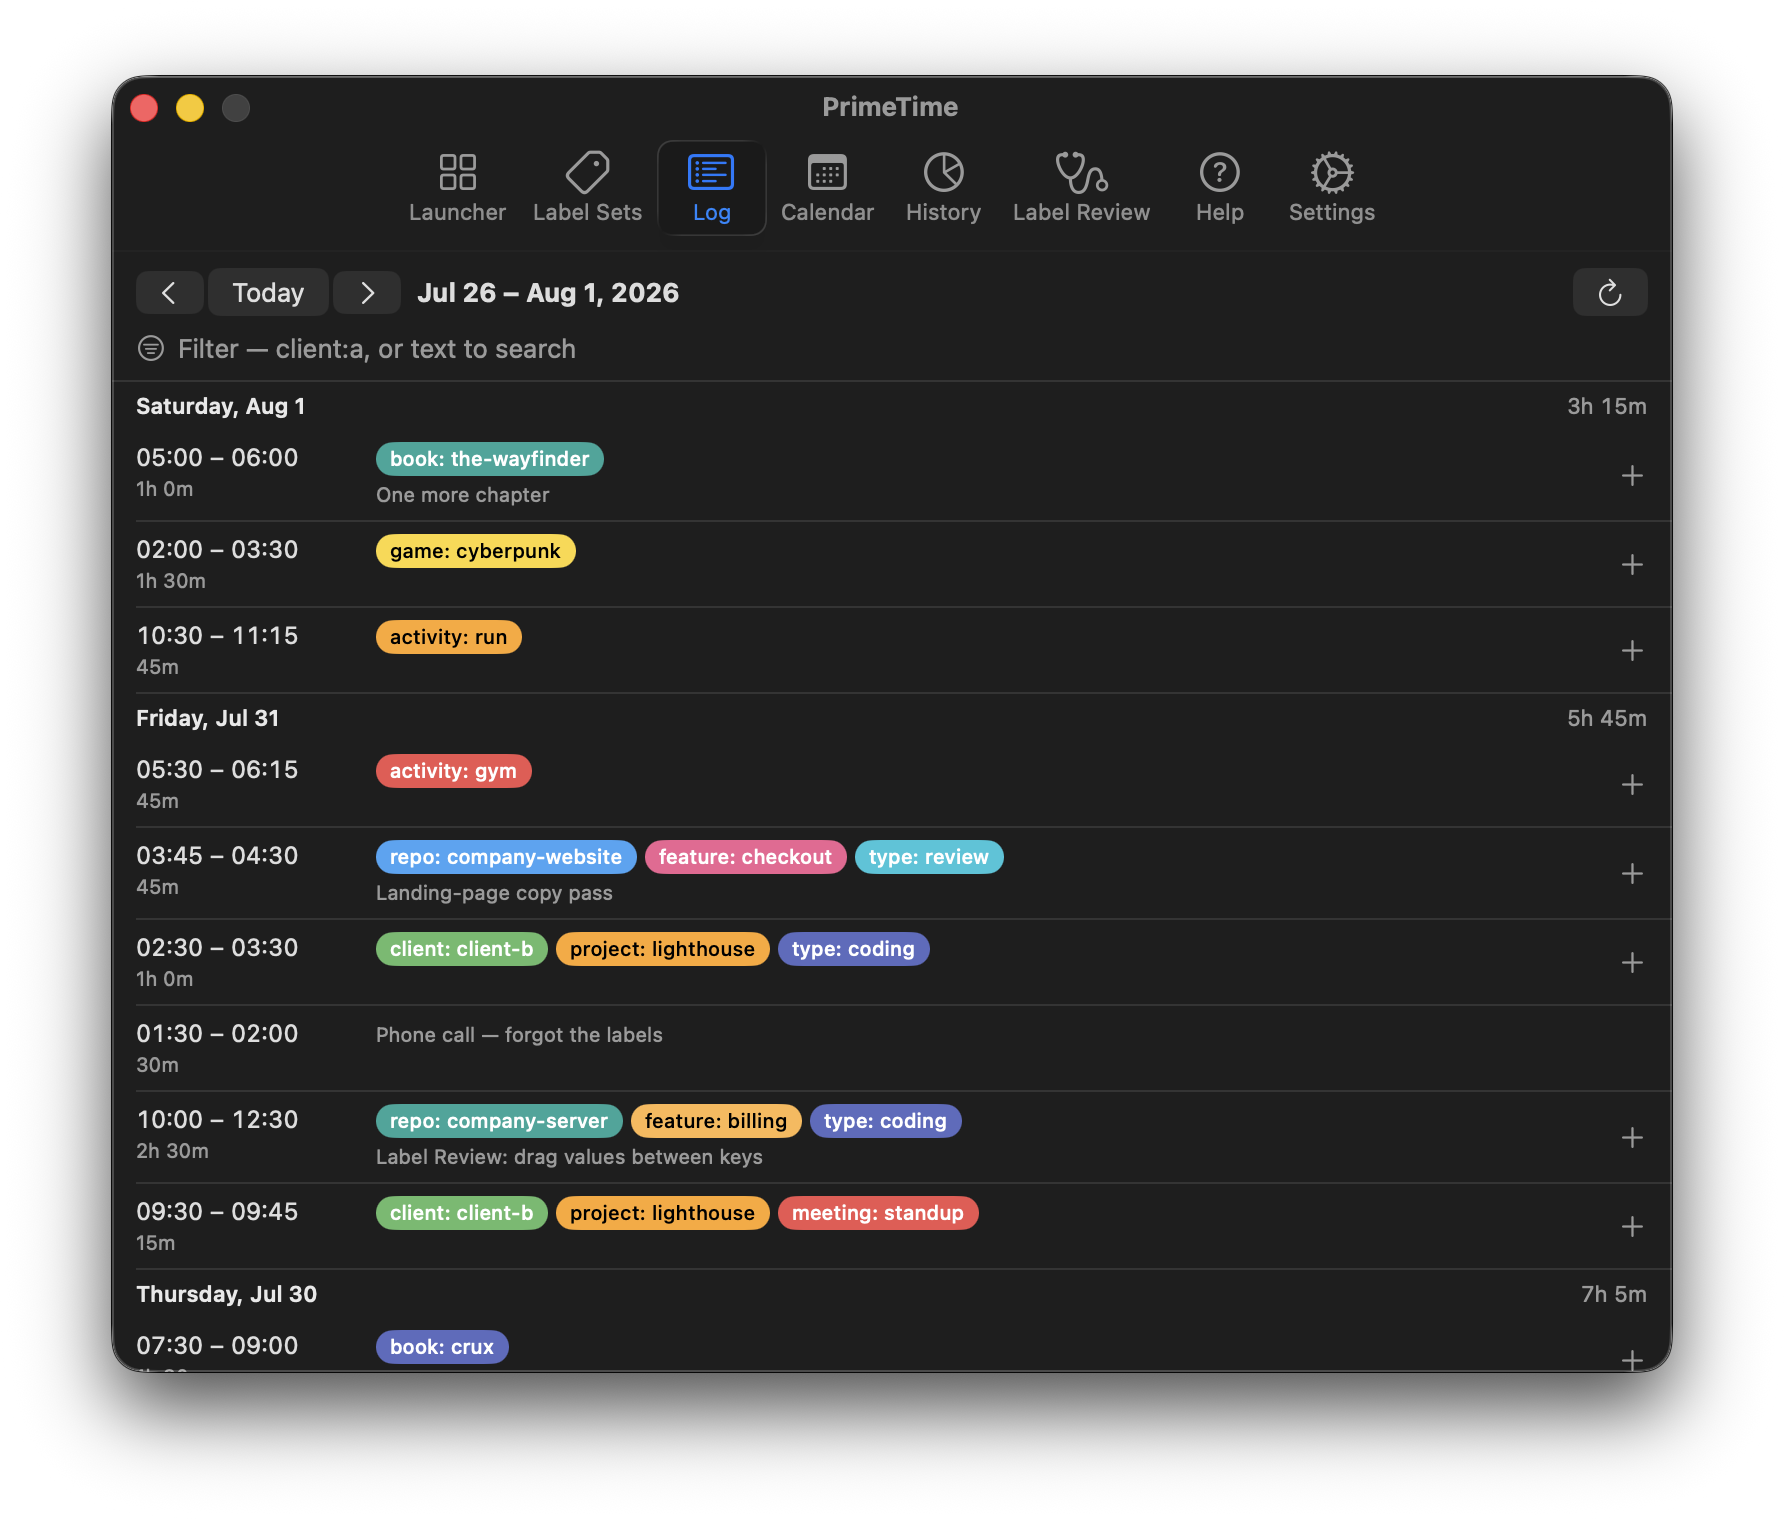
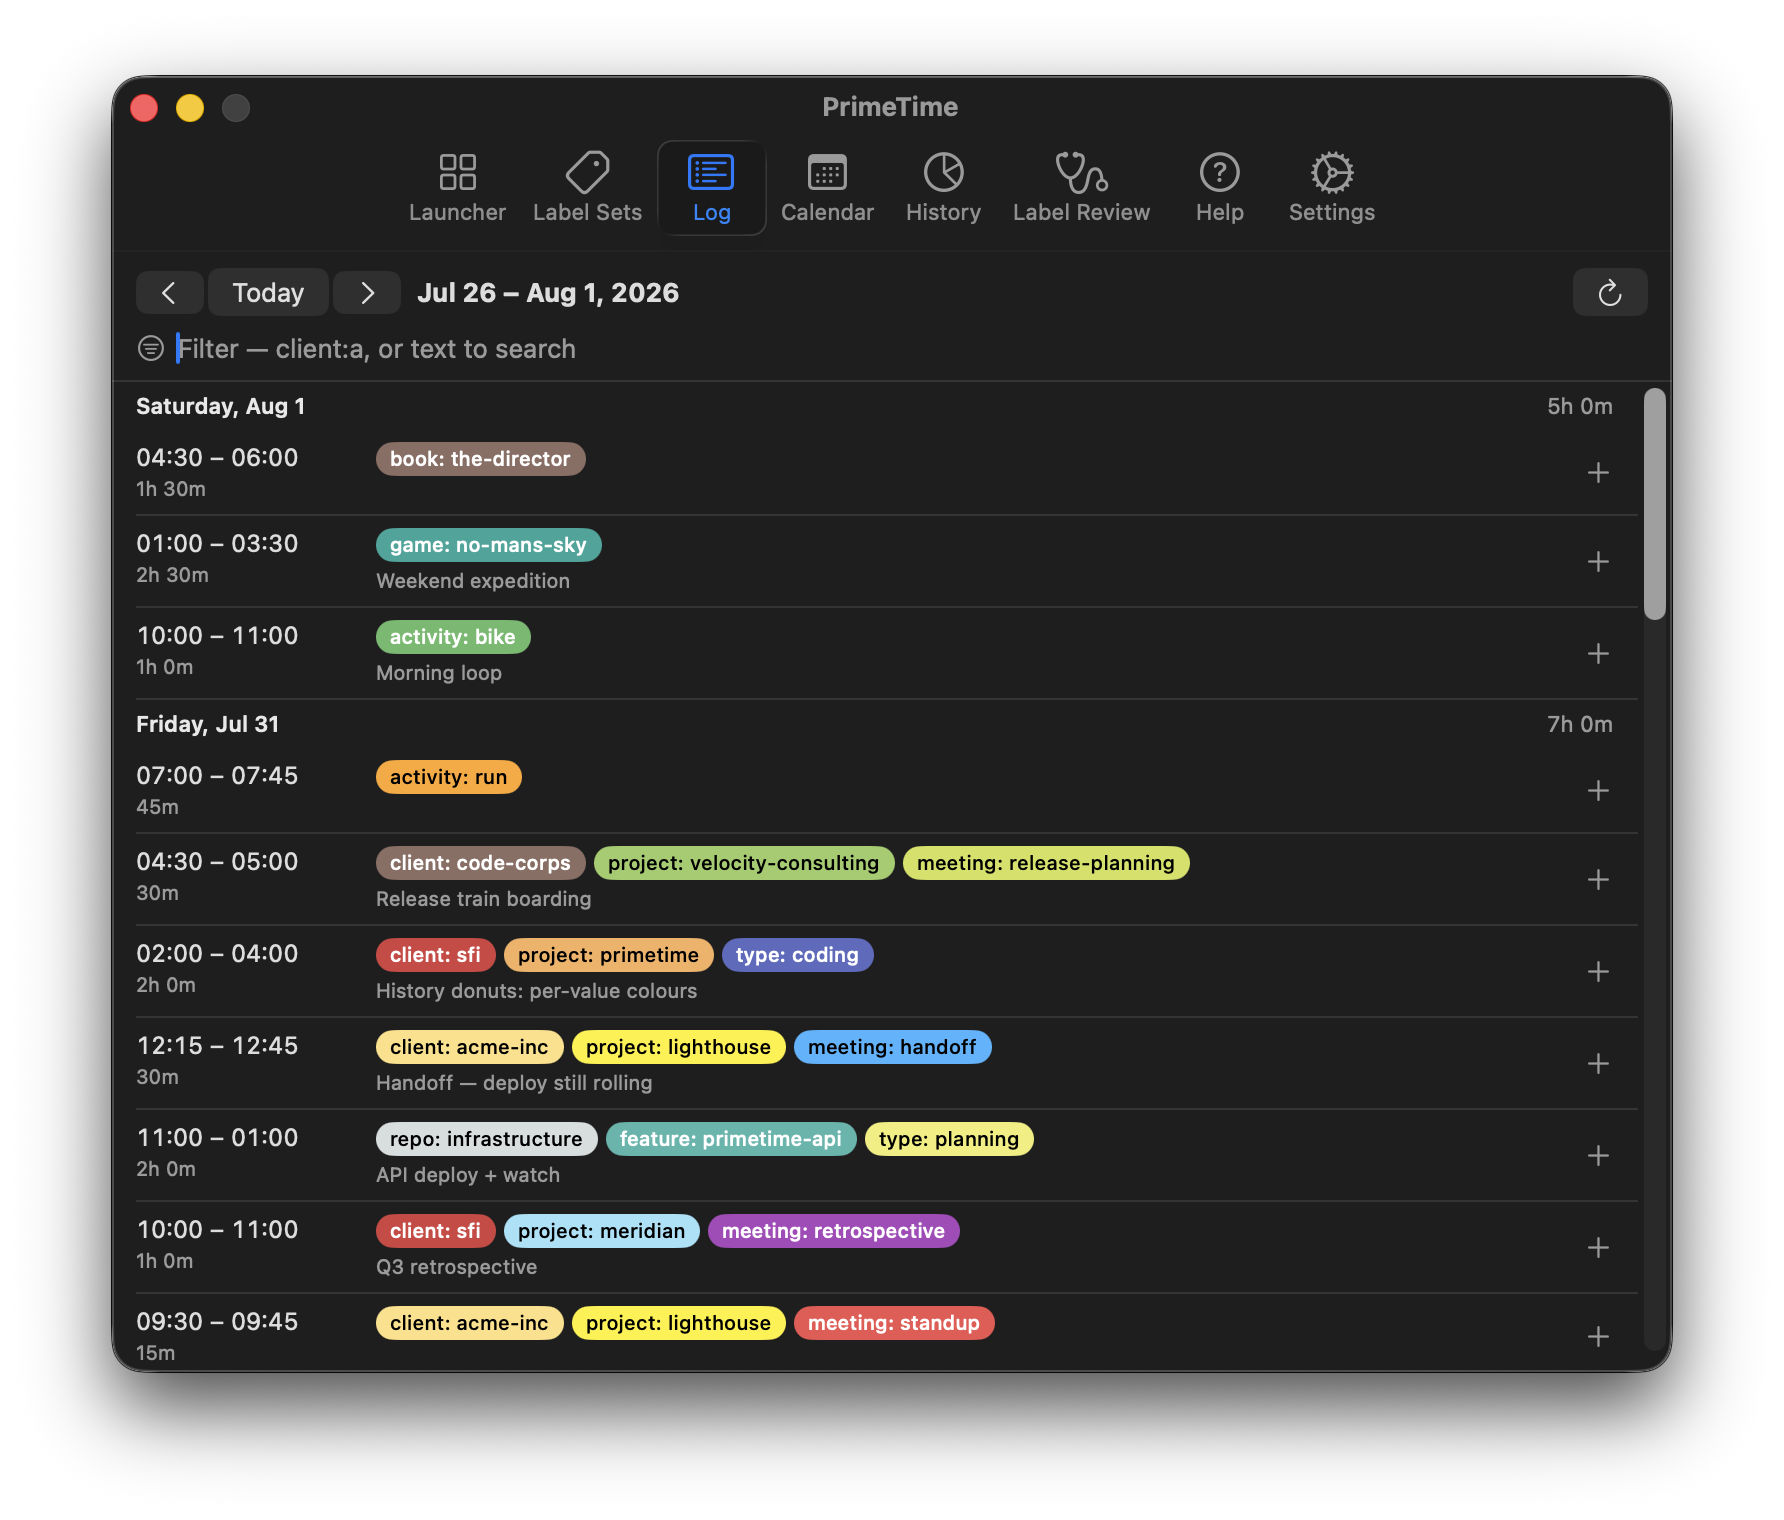
Release asset pass: light-theme stills, App Store screenshots, fresh batch (#191)
Final release-asset pass before Mac App Store submission. Companion: primetime-website#30.

**Pipeline** (fef3260)
- `shots.yaml`: `theme: light` website renditions for the five stills the site keeps as images; `to: appstore` outputs for all eight stills — composited onto a flattened 2880×1800 (16:10) charcoal canvas per the App Store Connect spec, committed in `captures/appstore/` for hand-upload at submission.
- Dropped web renditions nothing embeds (popover/launcher/label-review webps — the latter two moved to their motion mp4s).
- `process-captures.sh`/`export-captures.sh`: theme-aware raws (`<id>-light.png`), destination-prefixed staging (fixes the readme/appstore `label-review.png` collision), appstore compositing + destination; export worktree now dated with the **local** date (a UTC evening rollover split the capture/export worktree pair mid-run).
- Capture skill: light-appearance flow.

**Batch** (complete, manifests stamped v0.7.2-11-gfef3260 @ macbook-air)
- All 13 shots re-captured at head — the Aug 5 batch predated the demo colour tweaks in 2446a8c — plus 5 light stills and 8 App Store composites.
- Scene texts updated to the reworked demo seed: quick sets are PrimeTime App / Project Meridian / Gaming / Workout / Reading; Label Review's drift is `proj` → `project` (company-website, 10×); Settings shows Storage/Menu/Labels.
- New popover-motion framing is 800×1688 (status item + taller popover); tab videos are 1400×1192.
[…]

diff --git a/.claude/skills/shared/smoothdrag.swift b/.claude/skills/shared/smoothdrag.swift
@@ -1,0 +1,37 @@
+import CoreGraphics
+import Foundation
+
+// smoothdrag x1 y1 x2 y2 [durationMs=900] — a drag as macOS actually sees
+// one: mouseDown, ~60Hz interpolated mouseDragged stream, a settle pause
+// over the target, then mouseUp at the same spot.
+let a = CommandLine.arguments.compactMap { Double($0) }
+guard a.count >= 4 else { fputs("usage: smoothdrag x1 y1 x2 y2 [ms]\n", stderr); exit(2) }
+let (x1, y1, x2, y2) = (a[0], a[1], a[2], a[3])
+let ms = a.count >= 5 ? a[4] : 900
+
+func post(_ type: CGEventType, _ p: CGPoint) {
+    CGEvent(mouseEventSource: nil, mouseType: type, mouseCursorPosition: p,
+            mouseButton: .left)?.post(tap: .cghidEventTap)
+}
+
+let start = CGPoint(x: x1, y: y1)
+let end = CGPoint(x: x2, y: y2)
+post(.mouseMoved, start)
+usleep(200_000)
+post(.leftMouseDown, start)
+usleep(120_000)
+let steps = max(20, Int(ms / 16))
+for i in 1...steps {
+    let t = Double(i) / Double(steps)
+    // ease-in-out so the pickup and the approach are gentle
+    let e = t * t * (3 - 2 * t)
+    let p = CGPoint(x: x1 + (x2 - x1) * e, y: y1 + (y2 - y1) * e)
+    post(.leftMouseDragged, p)
+    usleep(16_000)
+}
+// settle over the target so dropUpdated has cycles to accept
+for _ in 0..<8 {
+    post(.leftMouseDragged, end)
+    usleep(60_000)
+}
+post(.leftMouseUp, end)

diff --git a/.claude/skills/shared/ax-driving.md b/.claude/skills/shared/ax-driving.md
@@ -204,3 +204,40 @@ skills, so the two don't drift.
   the take, and windows left over from onboarding (walkthrough → main
   window) overlap popover-region captures — close them all and verify
   with a CGWindowList helper that *zero* app windows remain on screen.
+- **Bulk attribute reads beat per-element iteration** (2026-08-07, popover
+  driving): `repeat with e in (UI elements of …)` re-resolves each element
+  by index and -10000s flakily even right after a successful `count`.
+  `set rs to role of UI elements of …` / `position of UI elements of …` /
+  `help of UI elements of …` fetch whole columns in one AppleEvent and are
+  reliable (absent attributes come back as `missing value`, no try needed).
+  Read everything you'll need *early* — trees go stale after clicks cause
+  reflows — and cache positions that survive the reflow (e.g. the top
+  timer's Stop button keeps its spot when a second timer appears).
+- **Hover-reveal rows: approach horizontally, target from AX at runtime**
+  (2026-08-07, popover quick-start rows): a cursor path that crosses upper
+  rows hover-expands them, shifting every later y — pre-baked coordinates
+  from a rehearsal in a different hover state click the wrong row. Enter
+  the row from *outside* the popover at its own y, and resolve chip
+  positions (`help` bulk read) only after the expansion settles.
+- **`.draggable`→`dropDestination` drops need a real event stream**
+  (2026-08-07, Label Review value→key drag): the cliclick
+  `dd:… m:… du:` recipe forms the drag session (preview + green badge)
+  but `performDrop` fires maybe 1 time in 5 — synthesized batch moves
+  starve `dropUpdated`. A tiny swiftc helper posting mouseDown, ~60Hz
+  interpolated `leftMouseDragged` events (ease-in-out), ~0.5s of settle
+  events over the target, then mouseUp landed the drop first try, every
+  try (`smoothdrag x1 y1 x2 y2 [ms]` — source vendored beside this file as
+  [smoothdrag.swift](smoothdrag.swift); `swiftc -O` it on demand). Frontmost still
+  required, and Escape before retries still applies.
+- **Focused vs unfocused window-ID stills differ in canvas size**
+  (2026-08-07): `screencapture -x -l` pads the window with its shadow —
+  56pt on every side for a *key* window (the 780×648 PrimeTime window →
+  1784×1520 px), noticeably less when unfocused. Screenshot-to-screen
+  coordinate math must use the focused margins (global = window origin +
+  canvas_pt − 56), and mixing focused/unfocused stills in one batch
+  changes rendition dimensions.
+- **`screencapture -v -V <s>` recordings end 1–4s before the cap** and the
+  written file's tail often can't be frame-extracted (`ffmpeg -ss` near
+  the end yields nothing even though `duration` includes it). Pad the cap
+  a few seconds past the choreography's last beat, and verify beats with
+  frames a couple of seconds *before* the nominal end.

diff --git a/captures/README.md b/captures/README.md
@@ -7,8 +7,9 @@ that capture batch reproducible instead of a per-session improvisation.
 | Piece | Role |
 | --- | --- |
 | `shots.yaml` | The shot list: every asset, the scene it must show, and which renditions ship where. Update a shot's `scene` in the same PR that changes its surface. |
-| `raw/` (gitignored) | Native-resolution captures as they come off `screencapture` — `<id>.png` stills, `<id>.mov` recordings. |
-| `out/` (gitignored) | Processed renditions (`just process-captures`): WebP stills, the README GIF, scaled mp4s. |
+| `raw/` (gitignored) | Native-resolution captures as they come off `screencapture` — `<id>.png` stills (`<id>-light.png` for light-appearance variants), `<id>.mov` recordings. |
+| `out/` (gitignored) | Processed renditions (`just process-captures`), staged as `<to>-<file>`: WebP stills, the README GIF, scaled mp4s, App Store composites. |
+| `appstore/` (committed) | Mac App Store screenshots: dark stills composited onto a flattened 2880×1800 (16:10) charcoal canvas, per the App Store Connect spec. Uploaded by hand at submission time. |
 | `manifest.json` | Provenance of the last exported batch: app commit, version, date, host, shots covered. `just release` warns when UI sources changed since this commit. |
 
 ## Refreshing the batch

diff --git a/.claude/skills/capture/SKILL.md b/.claude/skills/capture/SKILL.md
@@ -30,6 +30,12 @@ pipeline overview.
    (element map, window-ID stills, region recordings, all the AX caveats)
    live in [shared/ax-driving.md](../shared/ax-driving.md).
    A partial refresh is fine: capture only the shots whose surfaces changed.
+   Outputs with `theme: light` need a second capture of the same scene as
+   `<id>-light.png`: flip the system appearance with
+   `osascript -e 'tell app "System Events" to tell appearance preferences to
+   set dark mode to false'`, give the app a beat to re-render, re-stage, and
+   capture. Do all dark shots first, then the light batch in one appearance
+   flip — and flip dark mode back on when done.
 3. **Process:** `just process-captures` (deps: `brew install yq jq ffmpeg
    webp`). Missing raws are listed and skipped.
 4. **Export:** `just export-captures` — copies renditions into
